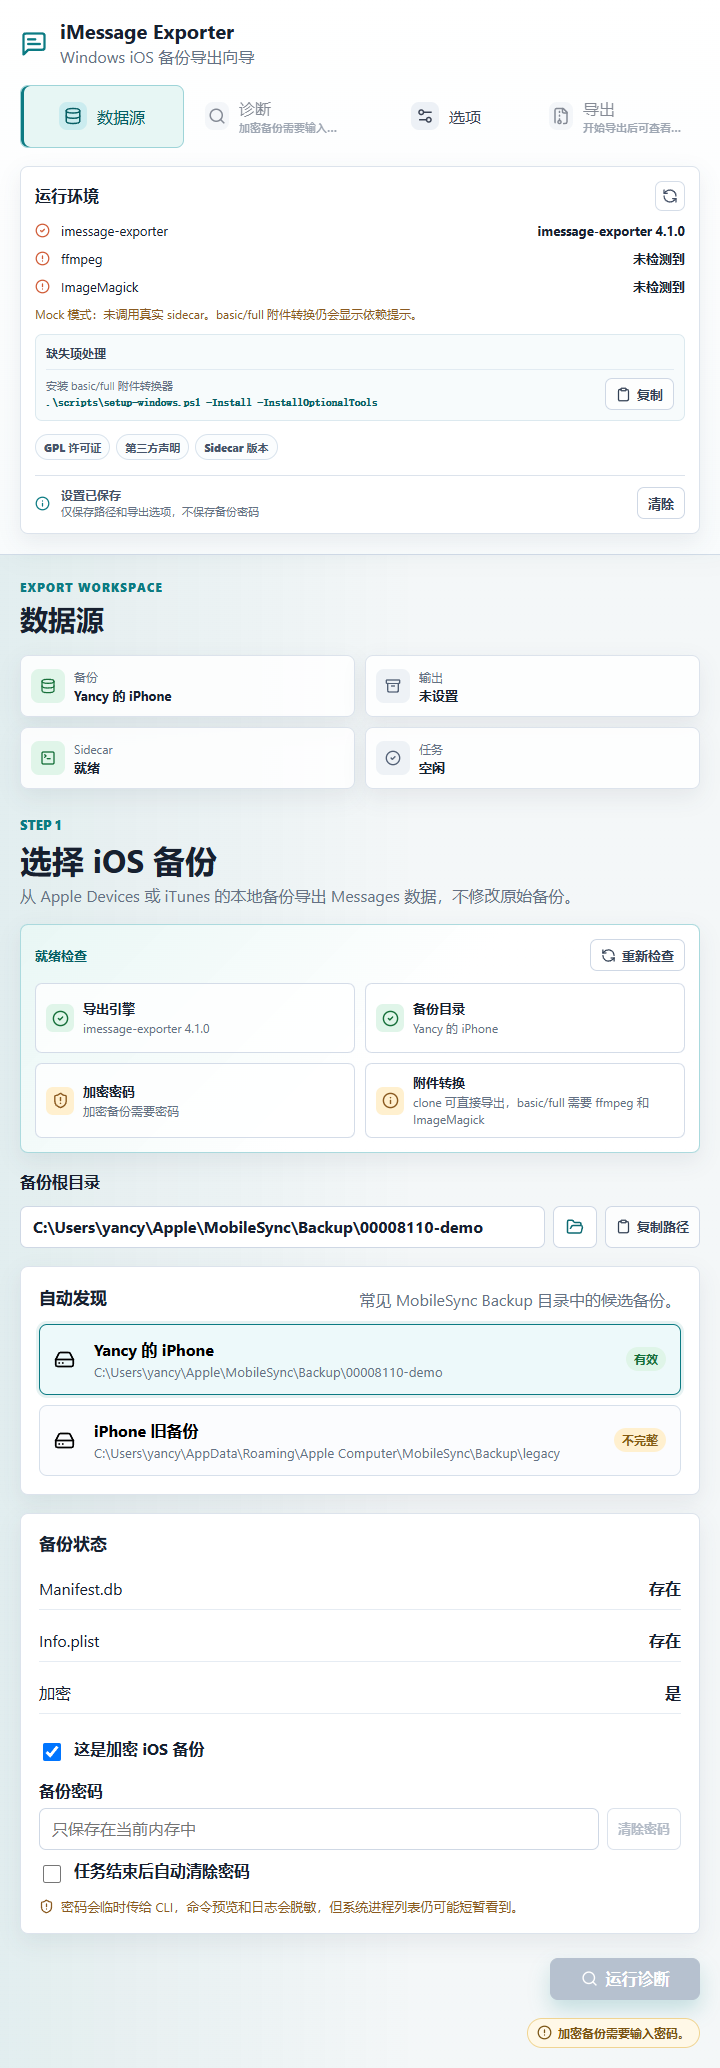
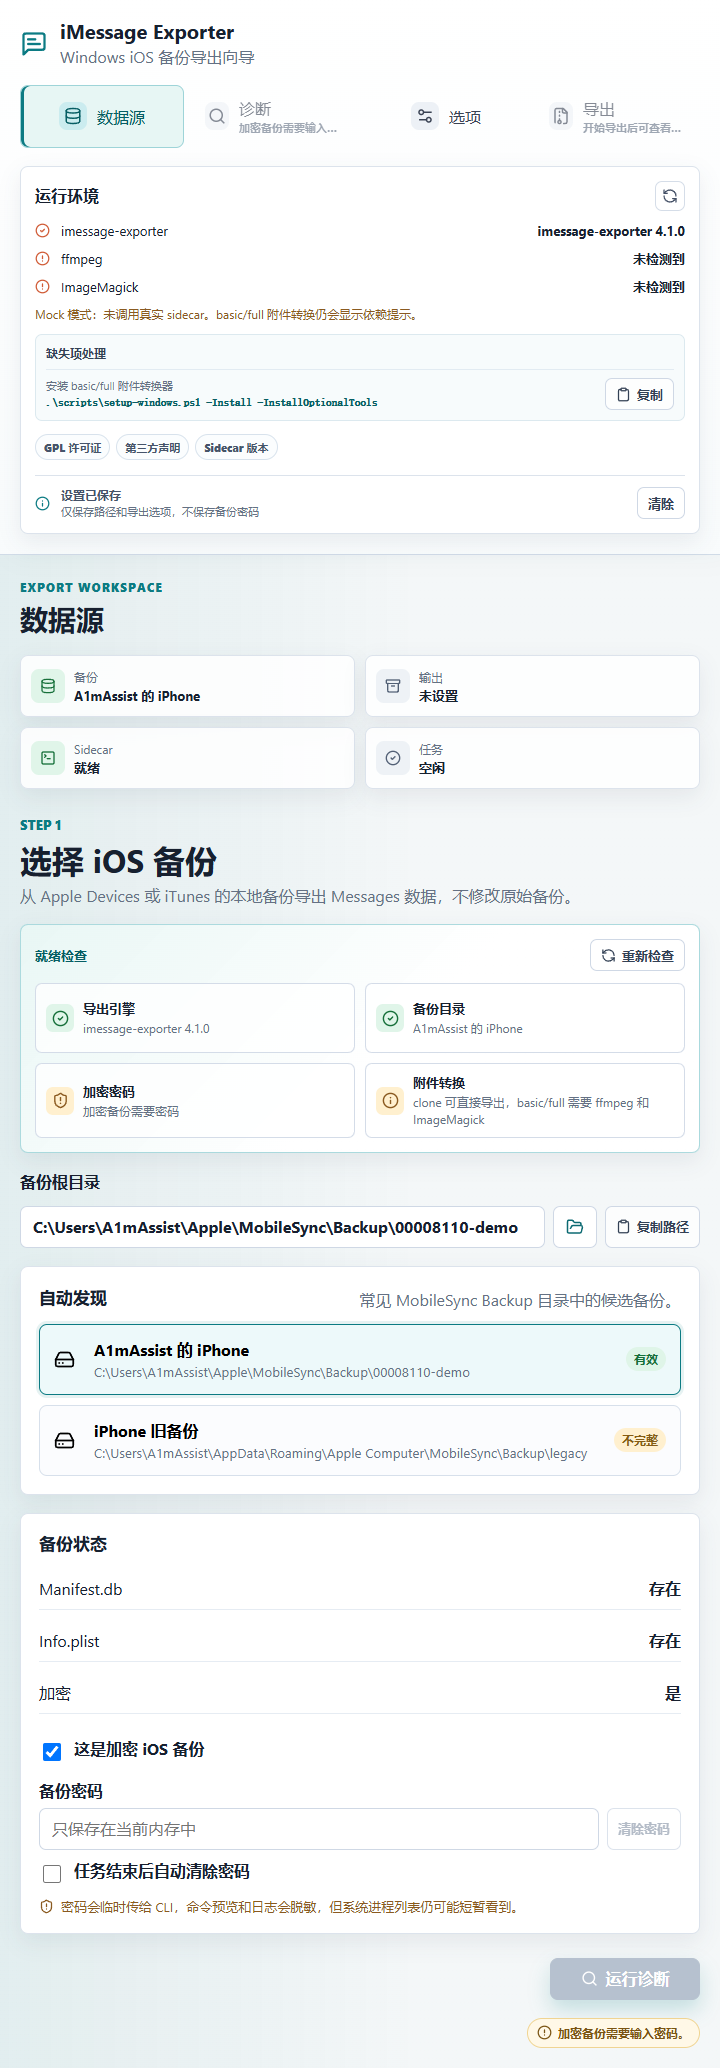
Add README example screenshots

diff --git a/preview/index.html b/preview/index.html
@@ -62,7 +62,7 @@
             <h2>数据源</h2>
           </div>
           <div class="quick-stats" aria-label="当前导出状态">
-            <div class="quick-stat ok"><span class="quick-stat-icon"><span class="preview-icon">D</span></span><span><small>备份</small><strong>Yancy 的 iPhone</strong></span></div>
+            <div class="quick-stat ok"><span class="quick-stat-icon"><span class="preview-icon">D</span></span><span><small>备份</small><strong>A1mAssist 的 iPhone</strong></span></div>
             <div class="quick-stat ok"><span class="quick-stat-icon"><span class="preview-icon">O</span></span><span><small>输出</small><strong>C:/.../Messages Export</strong></span></div>
             <div class="quick-stat warn"><span class="quick-stat-icon"><span class="preview-icon">T</span></span><span><small>Sidecar</small><strong>待构建</strong></span></div>
             <div class="quick-stat neutral"><span class="quick-stat-icon"><span class="preview-icon">I</span></span><span><small>任务</small><strong>空闲</strong></span></div>
@@ -82,7 +82,7 @@
             <label class="path-field">
               <span>备份根目录</span>
               <div>
-                <input value="C:\Users\yancy\Apple\MobileSync\Backup\00008110-demo" readonly />
+                <input value="C:\Users\A1mAssist\Apple\MobileSync\Backup\00008110-demo" readonly />
                 <button type="button"><span class="preview-icon">F</span></button>
               </div>
             </label>
@@ -96,12 +96,12 @@
             <div class="backup-grid">
               <button class="backup-card selected" type="button">
                 <span class="preview-icon">H</span>
-                <span><strong>Yancy 的 iPhone</strong><small>C:\Users\yancy\Apple\MobileSync\Backup\00008110-demo</small></span>
+                <span><strong>A1mAssist 的 iPhone</strong><small>C:\Users\A1mAssist\Apple\MobileSync\Backup\00008110-demo</small></span>
                 <span class="badge ok">有效</span>
               </button>
               <button class="backup-card" type="button">
                 <span class="preview-icon">H</span>
-                <span><strong>iPhone 旧备份</strong><small>C:\Users\yancy\AppData\Roaming\Apple Computer\MobileSync\Backup\legacy</small></span>
+                <span><strong>iPhone 旧备份</strong><small>C:\Users\A1mAssist\AppData\Roaming\Apple Computer\MobileSync\Backup\legacy</small></span>
                 <span class="badge warn">不完整</span>
               </button>
             </div>

diff --git a/src/api/tauri.ts b/src/api/tauri.ts
@@ -116,8 +116,8 @@ export function onJobEvent(handler: (event: JobEvent) => void) {
 
 export async function pickDirectory(defaultPath?: string, purpose: "backup" | "export" = "backup"): Promise<string | undefined> {
   if (usingMockApi()) {
-    if (purpose === "export") return "C:\\Users\\yancy\\Documents\\Messages Export";
-    return defaultPath || "C:\\Users\\yancy\\Apple\\MobileSync\\Backup\\00008110-demo";
+    if (purpose === "export") return "C:\\Users\\A1mAssist\\Documents\\Messages Export";
+    return defaultPath || "C:\\Users\\A1mAssist\\Apple\\MobileSync\\Backup\\00008110-demo";
   }
 
   const selected = await open({
@@ -161,8 +161,8 @@ function mockEnvironment(): EnvironmentStatus {
     ffmpegAvailable: false,
     imagemagickAvailable: false,
     defaultBackupRoots: [
-      "C:\\Users\\yancy\\Apple\\MobileSync\\Backup",
-      "C:\\Users\\yancy\\AppData\\Roaming\\Apple Computer\\MobileSync\\Backup",
+      "C:\\Users\\A1mAssist\\Apple\\MobileSync\\Backup",
+      "C:\\Users\\A1mAssist\\AppData\\Roaming\\Apple Computer\\MobileSync\\Backup",
     ],
     warnings: [
       missingSidecar ? "Mock 模式：模拟 sidecar 缺失，诊断和导出会被禁用。" : "Mock 模式：未调用真实 sidecar。basic/full 附件转换仍会显示依赖提示。",
@@ -176,9 +176,9 @@ function mockBackups(): BackupCandidate[] {
 
   return [
     {
-      path: "C:\\Users\\yancy\\Apple\\MobileSync\\Backup\\00008110-demo",
-      displayName: "Yancy 的 iPhone",
-      deviceName: "Yancy 的 iPhone",
+      path: "C:\\Users\\A1mAssist\\Apple\\MobileSync\\Backup\\00008110-demo",
+      displayName: "A1mAssist 的 iPhone",
+      deviceName: "A1mAssist 的 iPhone",
       lastModified: "1781136000",
       hasManifestDb: true,
       hasInfoPlist: true,
@@ -186,7 +186,7 @@ function mockBackups(): BackupCandidate[] {
       valid: true,
     },
     {
-      path: "C:\\Users\\yancy\\AppData\\Roaming\\Apple Computer\\MobileSync\\Backup\\legacy",
+      path: "C:\\Users\\A1mAssist\\AppData\\Roaming\\Apple Computer\\MobileSync\\Backup\\legacy",
       displayName: "iPhone 旧备份",
       deviceName: "iPhone 旧备份",
       lastModified: "1781049600",

diff --git a/src/lib/diagnosticReport.test.ts b/src/lib/diagnosticReport.test.ts
@@ -17,7 +17,7 @@ describe("diagnostic reports", () => {
       },
       backup: {
         path: "C:\\Backup",
-        displayName: "Yancy 的 iPhone",
+        displayName: "A1mAssist 的 iPhone",
         hasManifestDb: true,
         hasInfoPlist: true,
         encrypted: true,
@@ -40,7 +40,7 @@ describe("diagnostic reports", () => {
 
     expect(report).toContain("iMessage Exporter GUI 诊断报告");
     expect(report).toContain("imessage-exporter 4.1.0");
-    expect(report).toContain("Yancy 的 iPhone");
+    expect(report).toContain("A1mAssist 的 iPhone");
     expect(report).toContain("12 条消息");
     expect(report).toContain("[redacted]");
     expect(report).not.toContain("super-secret");

diff --git a/src/lib/archivePath.test.ts b/src/lib/archivePath.test.ts
@@ -17,10 +17,10 @@ describe("timestampedArchivePath", () => {
   it("falls back to the Windows user Documents folder derived from the backup path", () => {
     expect(
       timestampedArchivePath({
-        backupPath: "C:/Users/yancy/Apple/MobileSync/Backup/00008110-demo",
+        backupPath: "C:/Users/A1mAssist/Apple/MobileSync/Backup/00008110-demo",
         now,
       }),
-    ).toBe("C:\\Users\\yancy\\Documents\\Messages Export 2026-06-12 0130");
+    ).toBe("C:\\Users\\A1mAssist\\Documents\\Messages Export 2026-06-12 0130");
   });
 
   it("formats timestamps without path-hostile characters", () => {

diff --git a/README.md b/README.md
@@ -4,6 +4,12 @@
 
 它把常用导出流程做成了图形界面：选择 iOS 备份、检查备份状态、设置导出选项，然后一键导出并打开结果目录。
 
+## 界面示例
+
+![选择 iOS 备份](./preview/example-source.png)
+
+![导出完成](./preview/example-results.png)
+
 ## 下载安装
 
 普通用户不需要拉取源码，也不需要安装 Node.js、Rust 或 Visual Studio Build Tools。直接从 GitHub Releases 下载安装包即可：

diff --git a/HANDOFF.md b/HANDOFF.md
@@ -1,7 +1,7 @@
 # iMessage Exporter GUI Handoff
 
 交接日期: 2026-06-12  
-项目路径: `C:\Users\yancy\Documents\imessage-exporter-gui`  
+项目路径: `C:\Users\A1mAssist\Documents\imessage-exporter-gui`
 产品方向: Windows-first Tauri v2 + React + TypeScript 桌面 GUI，用向导方式调用 `imessage-exporter` 导出本机 iOS 备份。
 
 ## 一句话状态
